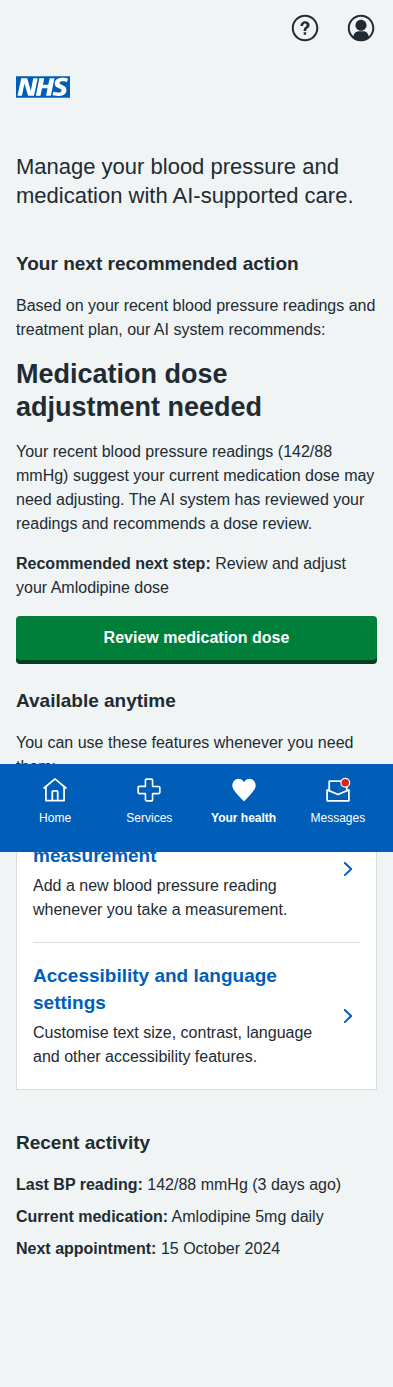
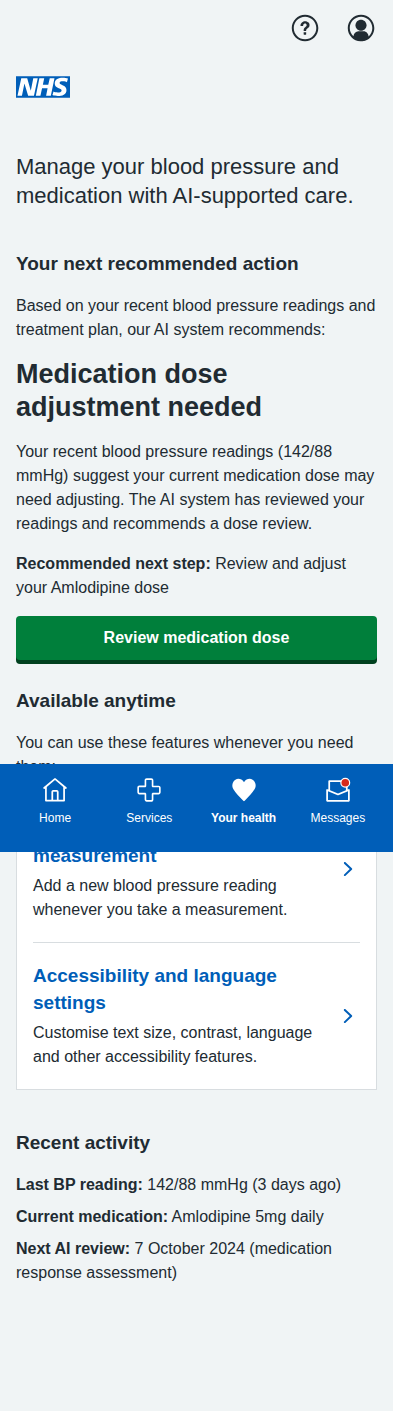
Remove GP appointment reference, replace with AI-orchestrated monitoring per MVP feedback

diff --git a/prototype/v1/app/views/pages/mybp/index.html b/prototype/v1/app/views/pages/mybp/index.html
@@ -93,7 +93,7 @@
           <strong>Current medication:</strong> Amlodipine 5mg daily
         </li>
         <li>
-          <strong>Next appointment:</strong> 15 October 2024
+          <strong>Next AI review:</strong> 7 October 2024 (medication response assessment)
         </li>
       </ul>
 

diff --git a/prototype/v1/screenshots/screenshots.md b/prototype/v1/screenshots/screenshots.md
@@ -85,7 +85,8 @@ Complete collection of iPhone-formatted screenshots (393x852 pixels) for all scr
 - **Your next recommended action**: AI system determines priority actions (medication dose adjustment) 
 - **Available anytime**: Non-priority features users can access independently
 - **Orchestrator control**: System guides users through care pathway rather than presenting choices
-- **MVP alignment**: Follows multi-agentic orchestration architecture from demo document
+- **AI-managed monitoring**: Shows "Next AI review" instead of GP appointments, reflecting autonomous AI management
+- **MVP alignment**: Follows multi-agentic orchestration architecture that reduces GP administrative burden
 
 ### 2. Enhanced Accessibility Settings Page  
 ![Enhanced Accessibility Settings](mybp-accessibility-settings-enhanced.png)
